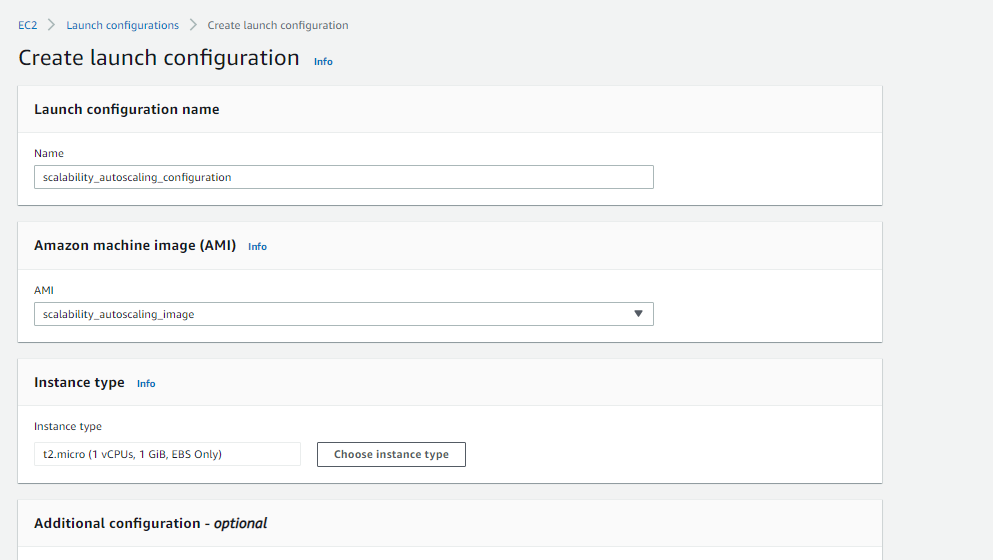
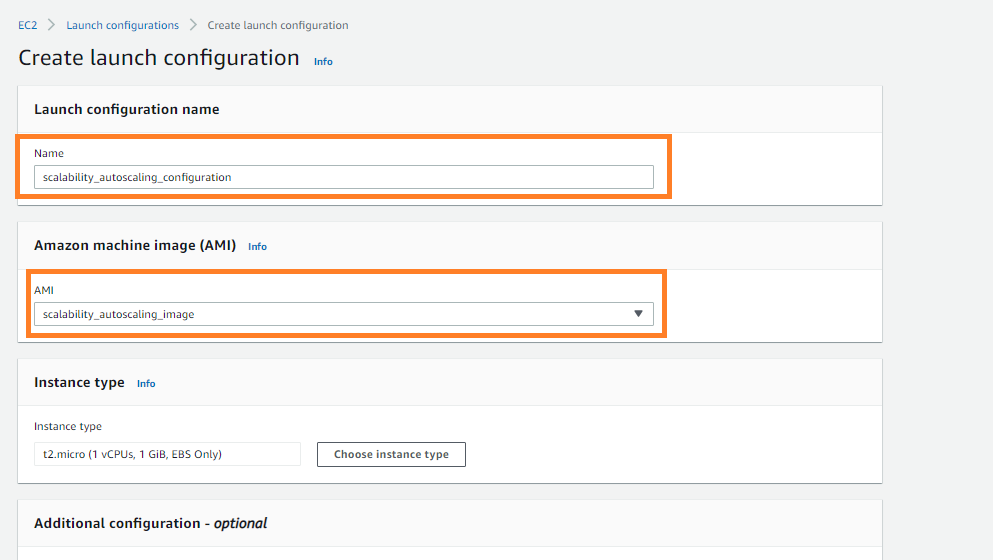
Readme loadbalancer

Changed region(s): [[0.0, 0.4554, 0.6868, 0.6071], [0.0, 0.2125, 0.6868, 0.3643]]

diff --git a/README.md b/README.md
@@ -104,7 +104,56 @@ Observamos nuestro Dockerfile a continuación:
     
     ![](/img/6.png)
 
-7. 
+7. **Ahora crearemos una nueva configuración de lanzamiento la cual se utilizará posteriormente por nuestro grupo de autoescalamiento*
+
+    Siga estos pasos para la creación de la configuración de lanzamiento:
+    
+    ![](/img/7.png)
+    
+    Ponga un nombre a la configuración y seleccione la AMI anteriormente creada.
+    
+    ![](/img/8.png)
+    
+    Seleccione el grupo de seguridad y la llave pública de la máquina anteriormente creada.
+    
+    ![](/img/10.png)
+    
+8. **Ahora crearemos un grupo de auto escalamiento que utilice esta configuración de lanzamiento (lanza nodos de la red según la capacidad requerida por el sistema)**
+
+    Siga estos pasos para crear el grupo de auto escalamiento:
+    
+    ![](/img/9.png)
+    
+    Seleccione el template de configuración anteriormente creado.
+    
+    ![](/img/11.png)
+    
+    Utilice la VPC (Virtual Private Cloud) por defecto de su cuenta de azure, si desea puede crear otra, además seleccione las zonas de disponibilidad a,b y c que representarán una ubicación geográfica diferente para cada nodo de la red. Por ahora no seleccionaremos ningún balanceador de carga (lo crearemos más adelante).
+    
+    ![](/img/12.png)
+    
+    Para esta prueba de concepto seleccionaremos un máximo de 3 instancias y para la política de escalamiento pondremos la política de seguimiento de objetivos como se ve en la siguiente imagen:
+    
+    ![](/img/13.png)
+
+9. **Crearemos un balanceador de carga de aplicación, que nos permita distribuir el tráfico a nivel de HTTP (este contará con su propia DNS y distribuirá la carga entre los diferentes nodos creados por el grupo de auto escalamiento)**
+
+    Para crear el balanceador de carga siga estos pasos:
+    
+    ![](/img/14.png)
+    
+    Seleccione un balanceador de carga de aplicación
+    
+    ![](/img/15.png)
+    
+    Active las 3 zonas de disponibilidad en el puerto 80, asigne el grupo de seguridad de su primera instancia de EC2 configure el enrutamiento a través de http en el puerto 8080 (o el puerto que le haya asignado en el docker-compose)
+
+    ![](/img/16.png) ![](/img/17.png)
+    ![](/img/18.png) ![](/img/19.png)
+
+10. 
+
+
 
 
 
